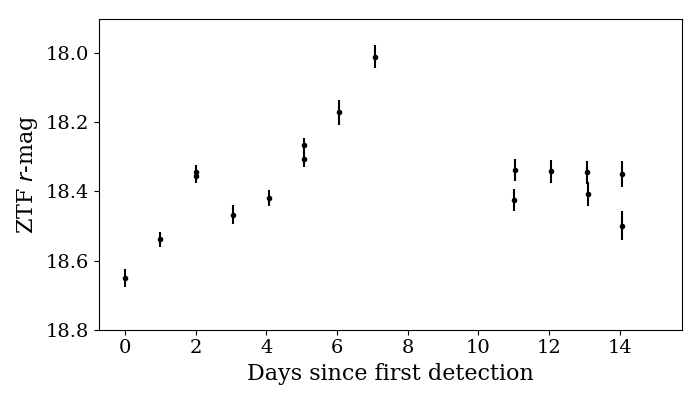
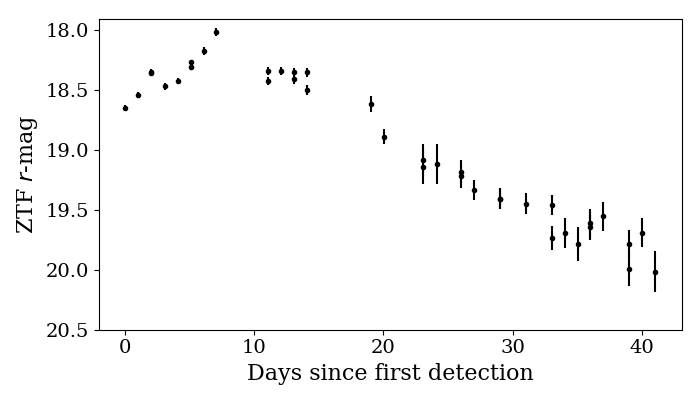
not sure

diff --git a/radio_lum.py b/radio_lum.py
@@ -23,13 +23,14 @@ import astropy.units as u
 
 
 # current values from the data, uJy, z=0.054
-dt = np.array([6, 11])
-f = np.array([32.5, 29.6])
+dt = np.array([6, 11, 23])
+f = np.array([32.5, 29.6, 26.6])
 flux = f * 10**-6 * 10**-23
 z = 0.054
 dL = Planck15.luminosity_distance(z=z)
 lum = 4 * np.pi * dL.cgs.value**2 * flux / (1+z)
 plt.scatter(dt, lum, c='k', marker='s')
+#plt.scatter(dt+10, lum, marker='s', facecolors='white', edgecolors='k')
 
 
 # mJy, z=0.105
@@ -97,12 +98,14 @@ plt.text(dt[0], lum[0]*1.2, s='2012ap', horizontalalignment='center')
 
 
 plt.xlim(0,40)
-plt.xlabel("Days since explosion or first det", fontsize=16)
+plt.xlabel("Days since discovery", fontsize=16)
 #plt.ylabel("$4 \pi d_L^2 F_\mathrm{radio} / (1+z)$ erg/Hz/s", fontsize=16)
-plt.ylabel(r"Radio Lum. near $5\,$GHz [erg/Hz/s]", fontsize=16)
-
+plt.ylabel(r"$L_{\nu=5\,\mathrm{GHz}}$ [erg/Hz/s]", fontsize=16)
 plt.yscale('log')
+plt.xticks(fontsize=14)
+plt.yticks(fontsize=14)
 
 plt.tight_layout()
 
+#plt.show()
 plt.savefig("radio_lum.png")

diff --git a/plot_lc.py b/plot_lc.py
@@ -11,11 +11,11 @@ from astropy.io import ascii
 
 
 fig = plt.figure(figsize=(7, 4))
-lc = ascii.read('lc.dat', delimiter=" ")
+lc = ascii.read('data/lc.dat', delimiter=" ")
 plt.errorbar(lc['t']-lc['t'][0], lc['mag'], yerr=lc['emag'], fmt='.', c='k')
 plt.xlabel("Days since first detection", fontsize=16)
 plt.ylabel("ZTF $r$-mag", fontsize=16)
-plt.ylim(17.9,18.8)
+plt.ylim(17.9,20.5)
 plt.gca().invert_yaxis()
 plt.tick_params(axis='both', labelsize=14)
 plt.tight_layout()
